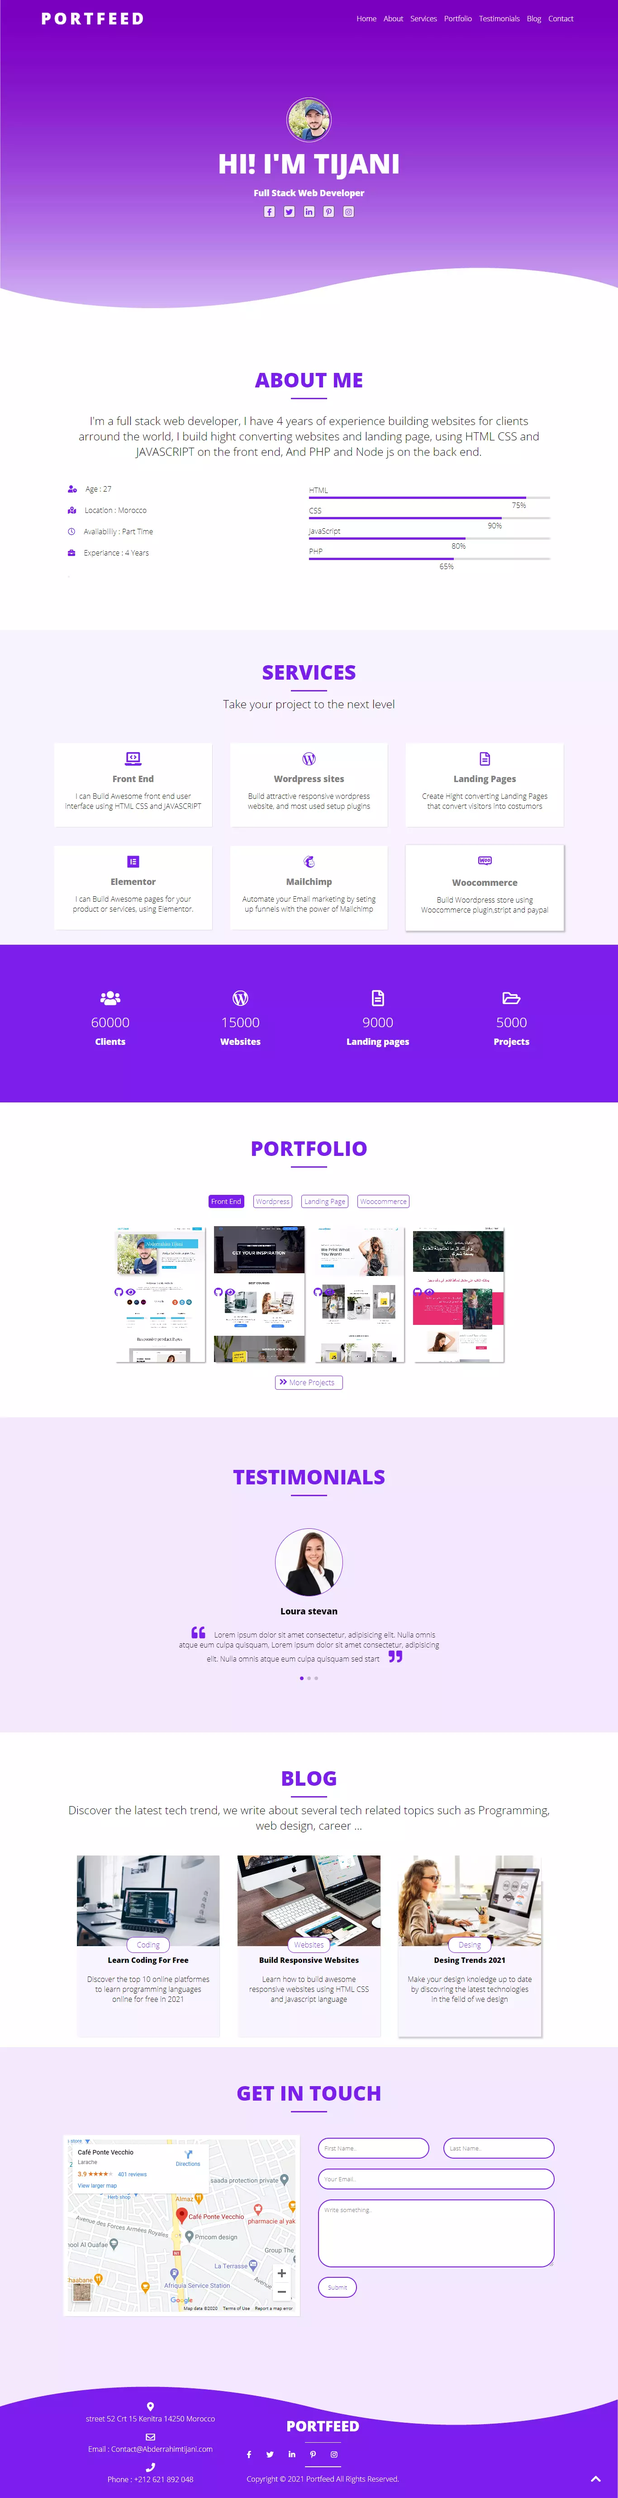
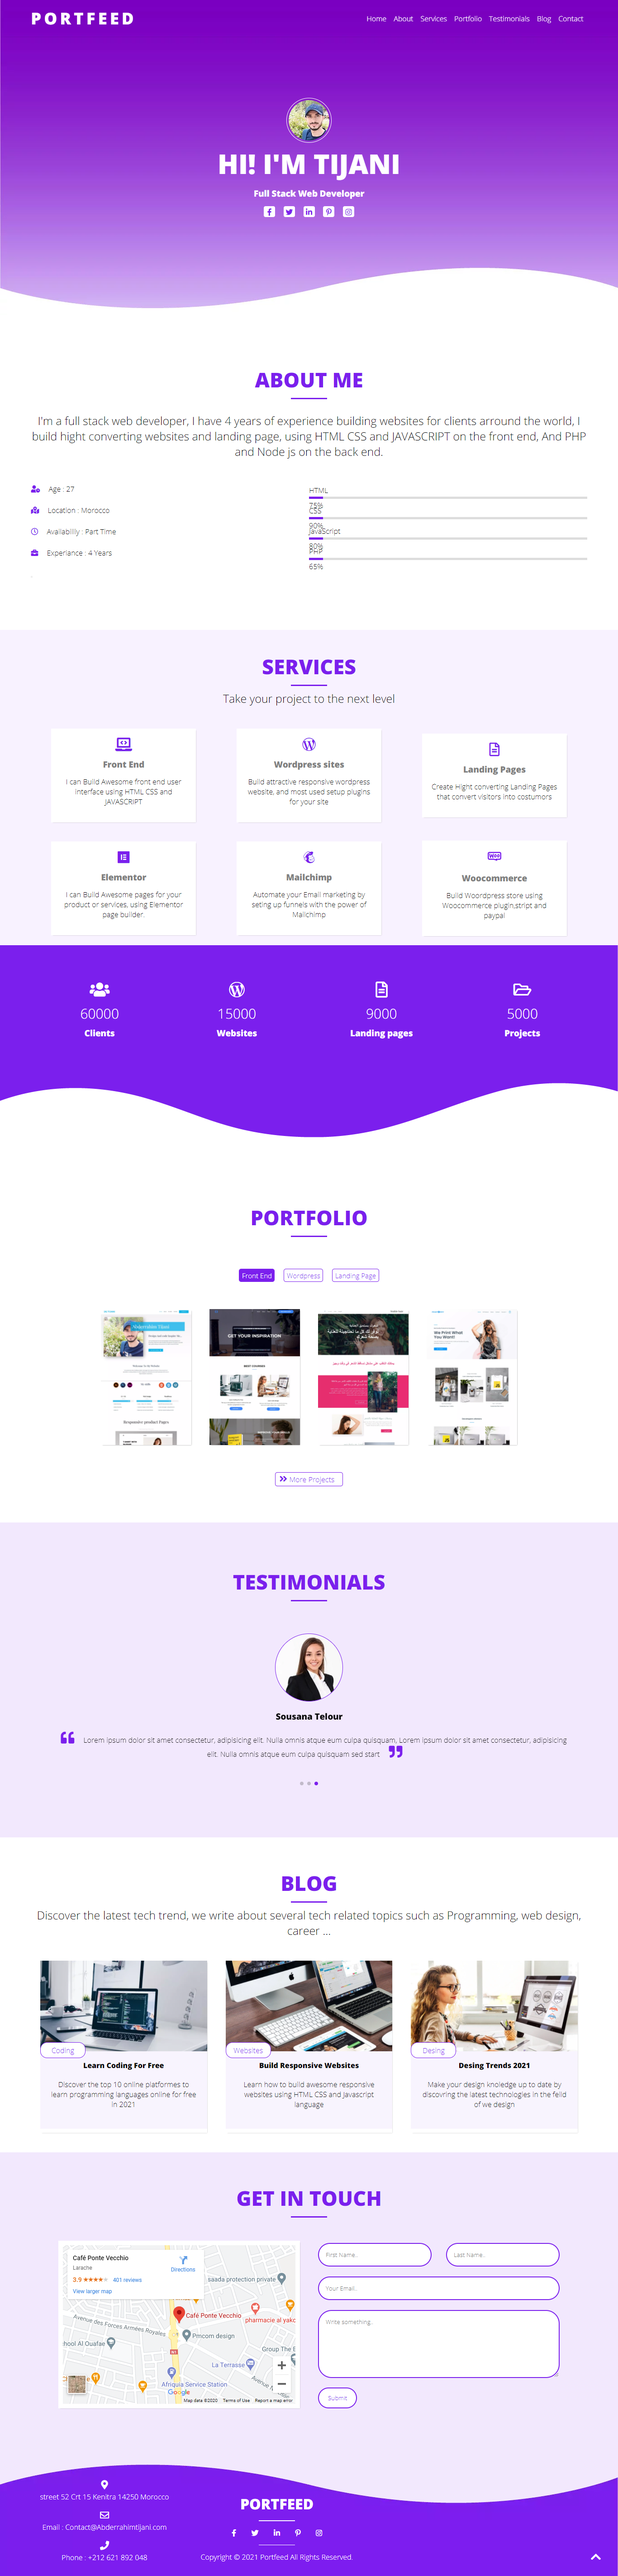
update project img

diff --git a/css/style.css b/css/style.css
@@ -546,7 +546,7 @@ header .hero .socials a:hover {
     background-position: top;
 }
 .project4 {
-    background: url(/Images/stablehair-screen.webp);
+    background: url(/Images/portfolio-screen.webp);
     background-size: cover;
     background-position: top;
 }
